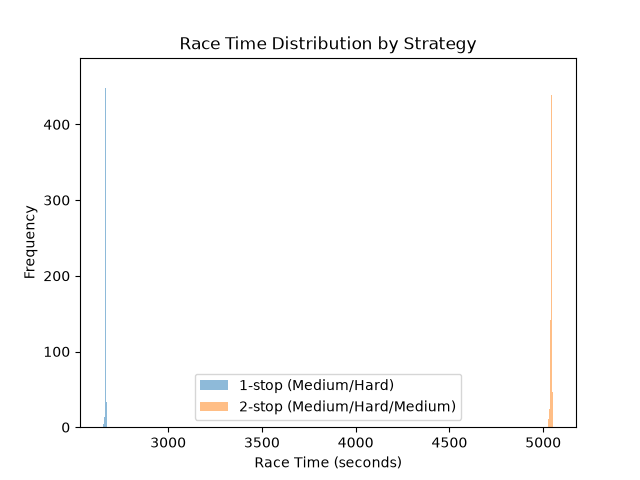
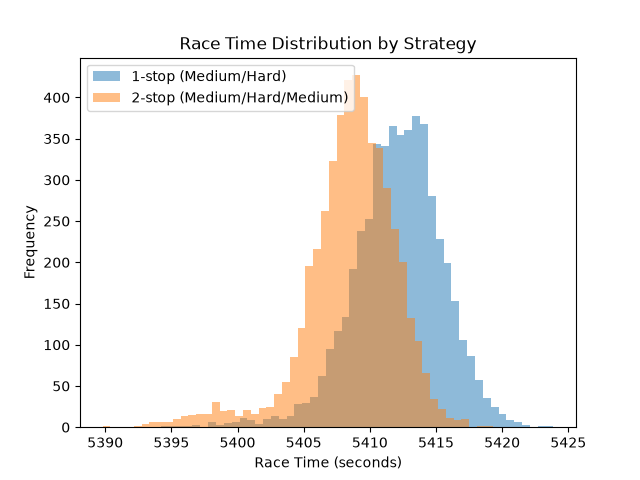
Added updated code

diff --git a/src/monte_carlo.py b/src/monte_carlo.py
@@ -15,22 +15,21 @@ import statistics
 from race import simulate_race
 from tracks import TRACKS
 
-
 def run_monte_carlo(strategy, chosen_track, n_simulations=5000, safety_car_probability=0.25, seed=None):
-   rng= random.Random(seed)  # a controlled source of randomness, seeded with seed
-   result = []
+    rng = random.Random(seed)
+    result = []
 
-   for n in range(n_simulations):
-       safety_car_happens = rng.random() < safety_car_probability
-       if safety_car_happens:
-           safety_car_lap = rng.randint(1, chosen_track["laps"])  # randomly choose a lap for the safety car
-       else:
-           safety_car_lap = None  # no safety car
-   
-       stimulation_result = simulate_race(strategy, rng, chosen_track, safety_car_lap)
-       result.append(stimulation_result)   # call simulate
+    for n in range(n_simulations):
+        safety_car_happens = rng.random() < safety_car_probability
+        if safety_car_happens:
+            safety_car_lap = rng.randint(1, chosen_track["laps"] - 1)
+        else:
+            safety_car_lap = None
 
-   return result
+        stimulate_result = simulate_race(strategy, rng, chosen_track, safety_car_lap)
+        result.append(stimulate_result)
+
+    return result
 
 
 def summarize(name, results):
